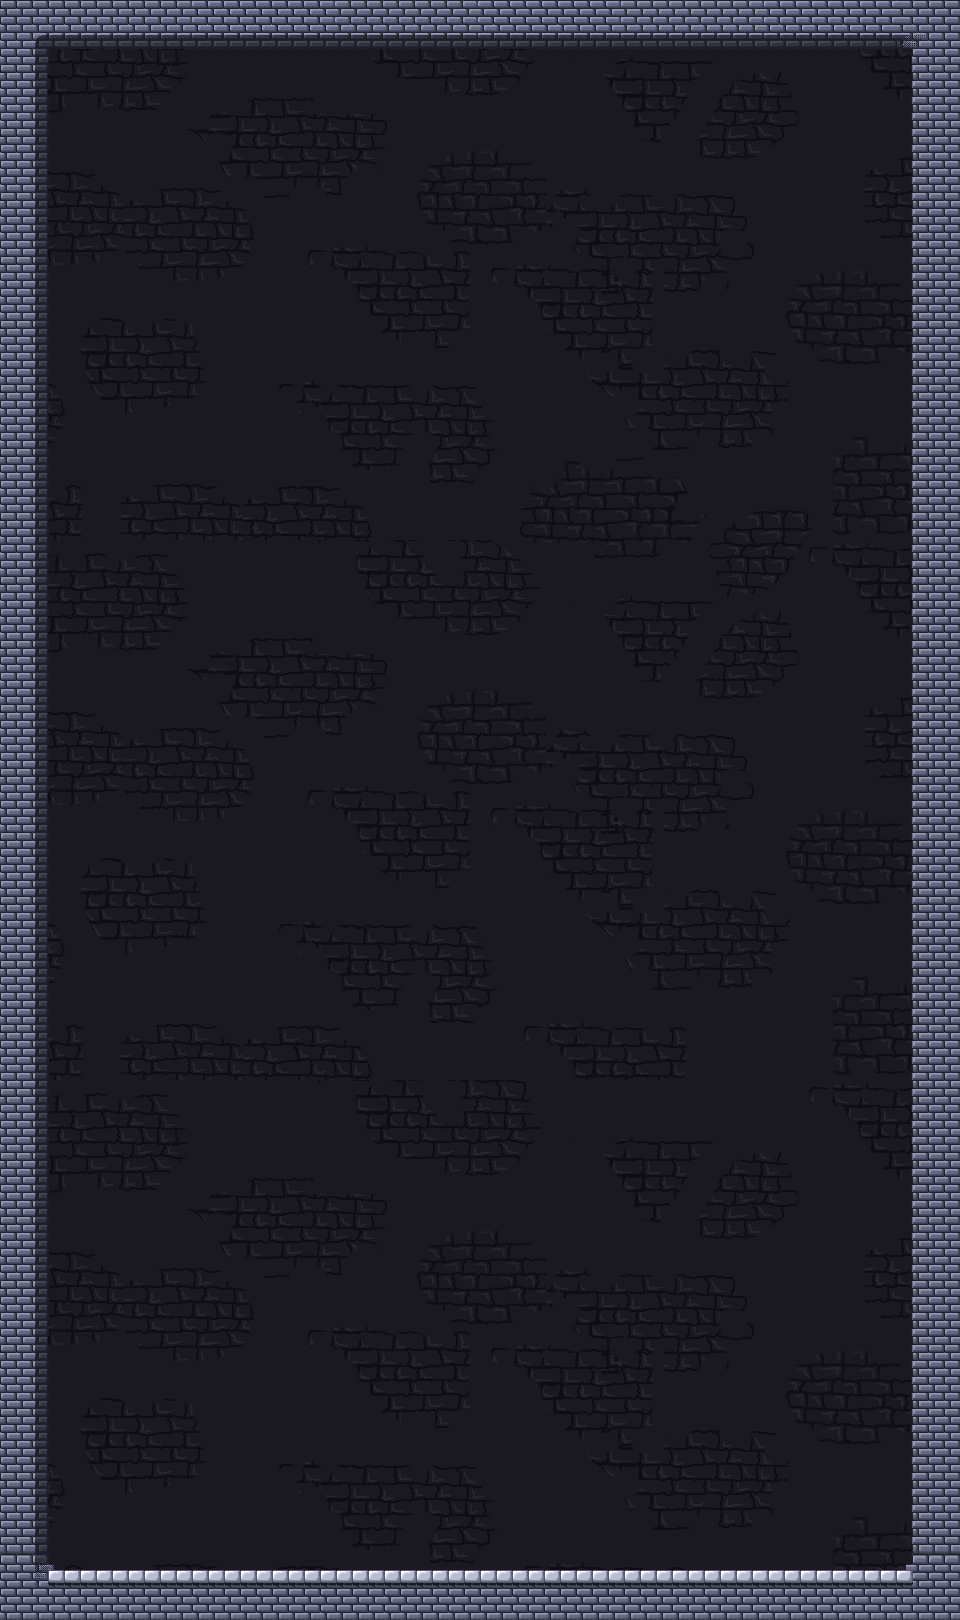
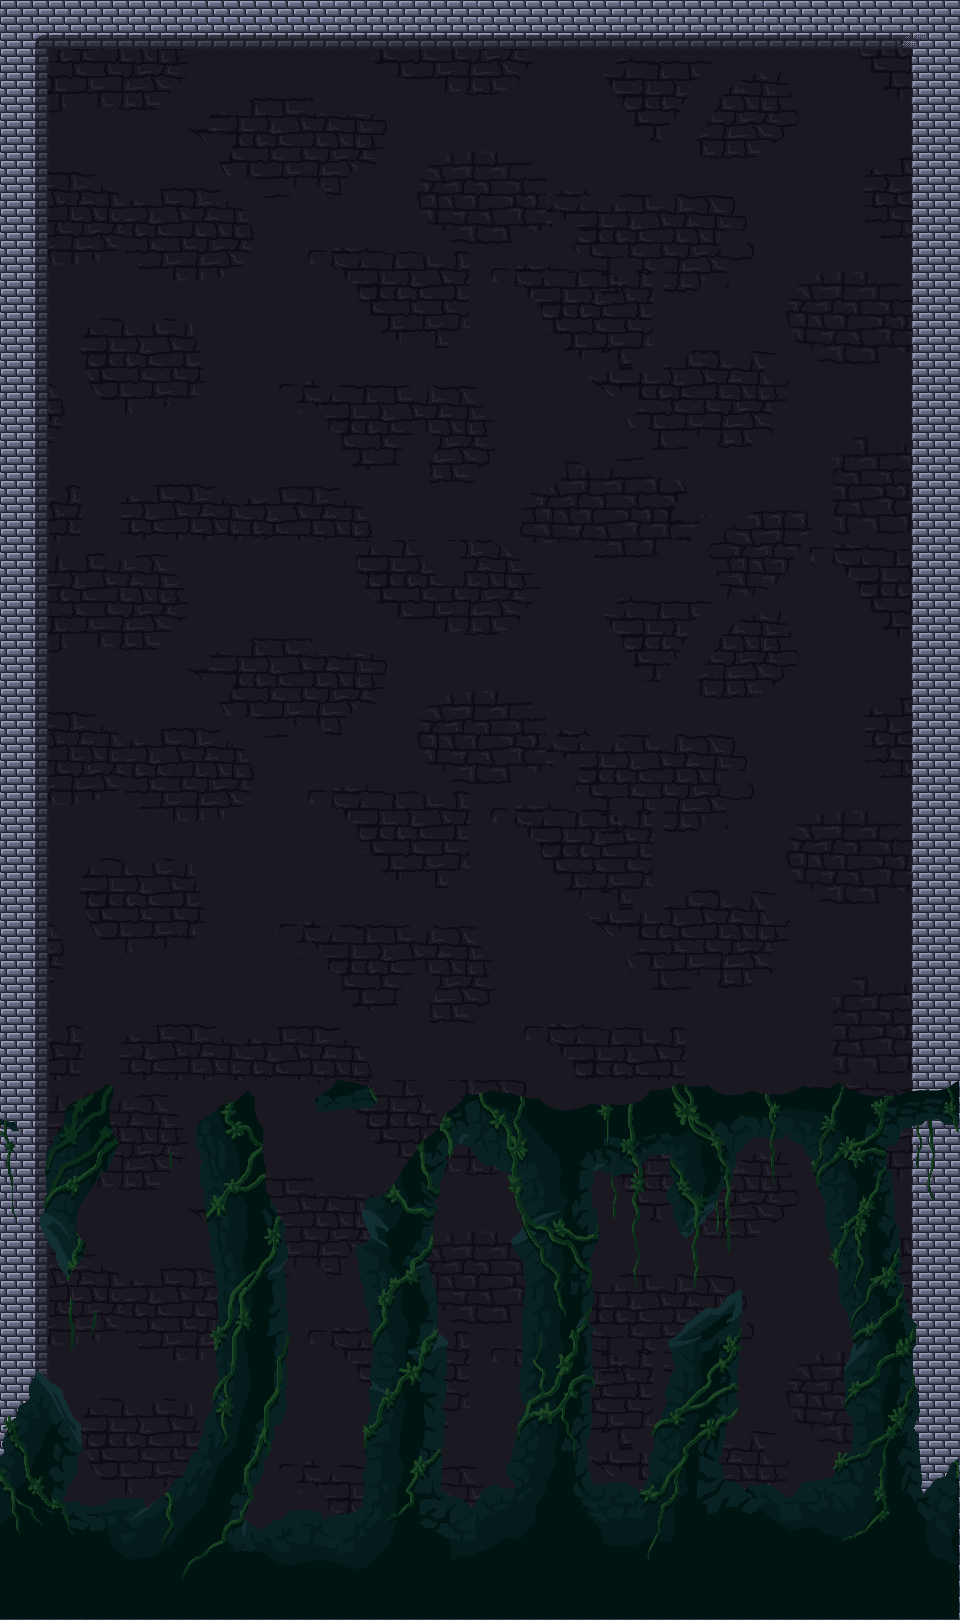
Ruins at bottom

diff --git a/src/game/engine/layout.ts b/src/game/engine/layout.ts
@@ -21,6 +21,7 @@ export interface IBlockLayout {
   repeat?: number
   width?: number
   height?: number
+  depth?: number
 }
 
 export interface IGateLayout {
@@ -33,12 +34,15 @@ export interface IGateLayout {
   height: number
   toRoom: string
   dropArea: string
+  depth?: number
 }
 
 export interface ILayout {
   size?: { x?: number; y?: number; width: number; height: number }
   images?: { global?: boolean; key: string; url: string }[]
-  backgrounds?: [{ key: string; activateKey?: string; activateReverse?: boolean; x?: number; y?: number }]
+  backgrounds?: [
+    { key: string; activateKey?: string; activateReverse?: boolean; x?: number; y?: number; depth?: number }
+  ]
   blocks?: IBlockLayout[]
   gates?: IGateLayout[]
   dropAreas?: [{ key: string; x: number; y: number }]
@@ -110,7 +114,7 @@ export const layout = (scene: Phaser.Scene, roomKey: string): void => {
       backgroundKey,
       backConfig.x ?? settingsHelpers.fieldWidthMid,
       backConfig.y ?? settingsHelpers.fieldHeightMid,
-      imageDepth++
+      backConfig.depth ?? imageDepth++
     )
 
     // If there is no activateKey then create the image,
@@ -145,7 +149,7 @@ export const layout = (scene: Phaser.Scene, roomKey: string): void => {
         imageKey,
         cornerX + blockConfig.x + width / 2 + i * width,
         cornerY + blockConfig.y + height / 2,
-        imageDepth++,
+        blockConfig.depth ?? imageDepth++,
         width,
         height,
         blockConfig
@@ -182,7 +186,7 @@ export const layout = (scene: Phaser.Scene, roomKey: string): void => {
       imageKey,
       cornerX + gateConfig.x + width / 2,
       cornerY + gateConfig.y + height / 2,
-      imageDepth++,
+      gateConfig.depth ?? imageDepth++,
       width,
       height,
       gateConfig
